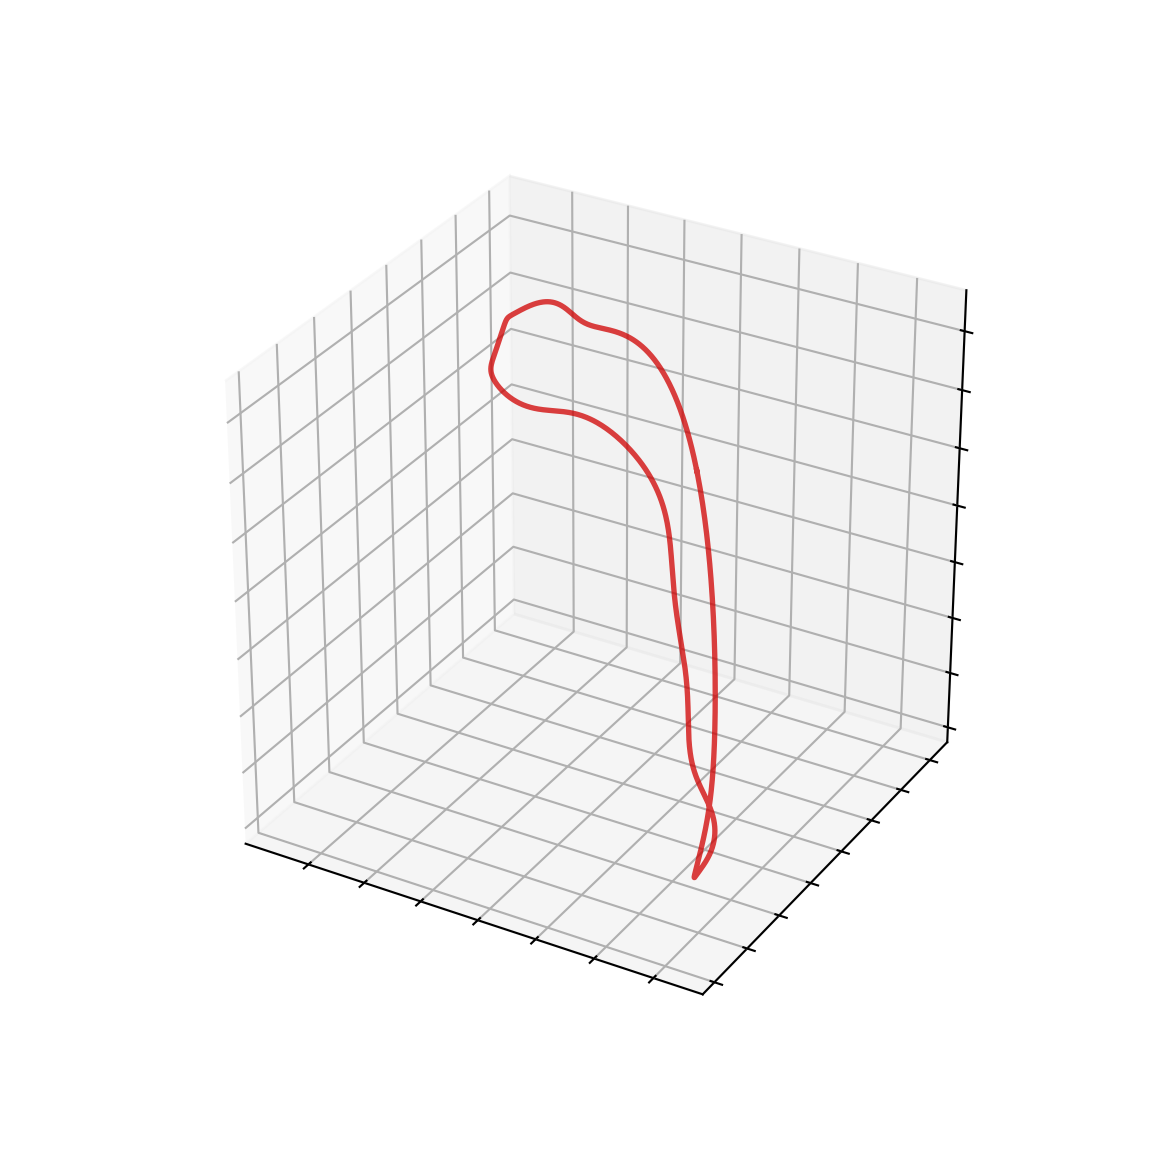
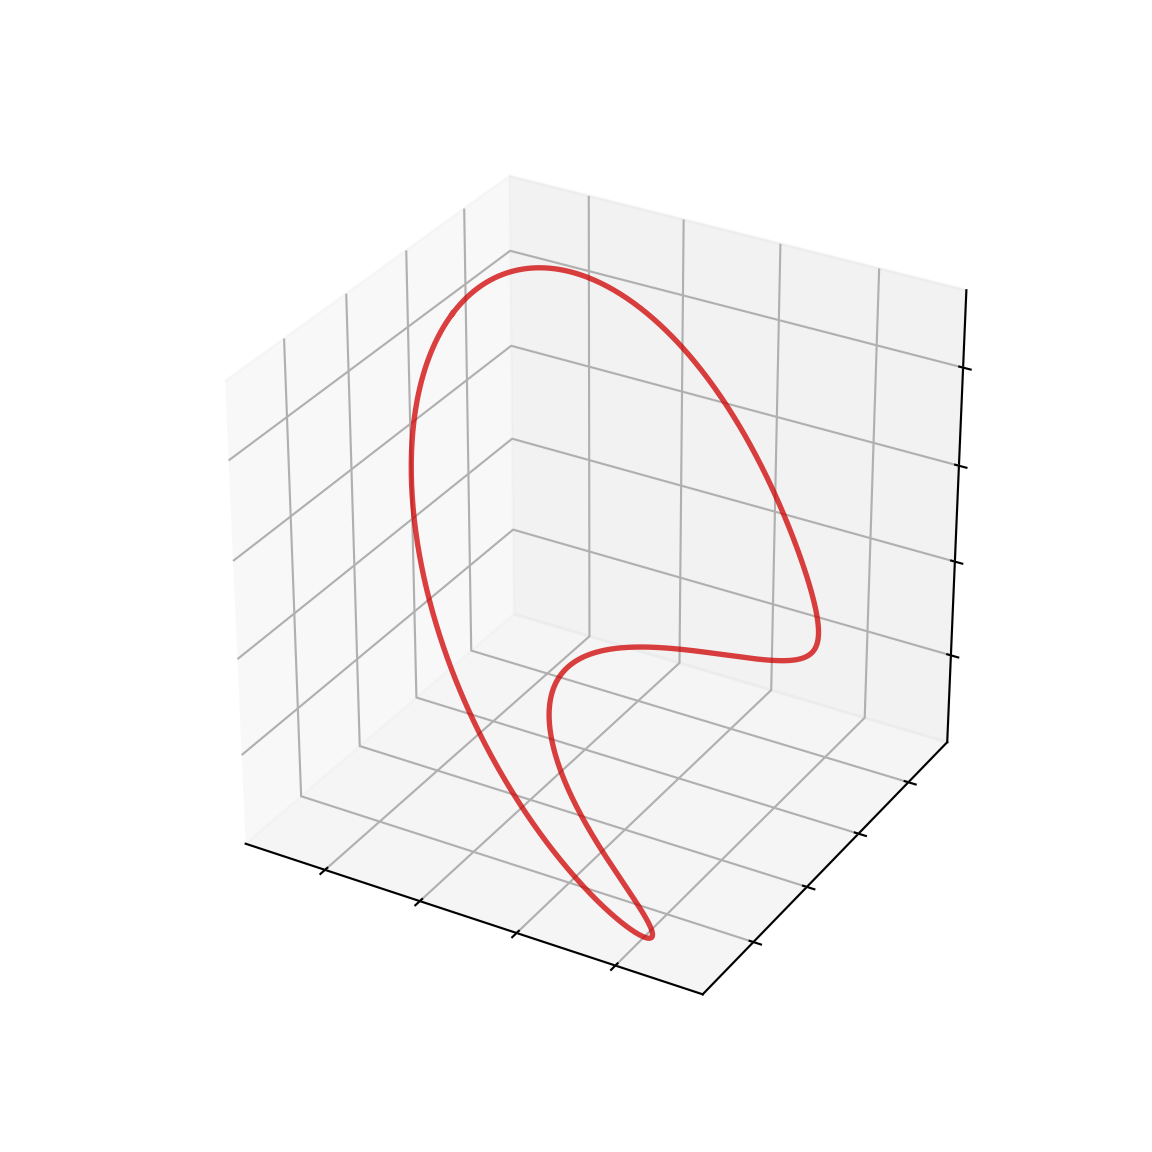
figures

Changed region(s): [[0.1875, 0.1875, 0.8438, 0.8438], [0.3125, 0.75, 0.3438, 0.7812]]

diff --git a/worm_like_micelle/figures/generate_gif.py b/worm_like_micelle/figures/generate_gif.py
@@ -3,10 +3,10 @@ from IPython import display
 import glob
 import imageio
 
-anim_file = './chain/chain.gif'
+anim_file = './ring/ring.gif'
 
 with imageio.get_writer(anim_file, mode='I') as writer:
-    filenames = glob.glob('./chain/chain_test_*.png')
+    filenames = glob.glob('./ring/ring_test_*.png')
     filenames = sorted(filenames)
     for filename in filenames:
         image = imageio.imread(filename)
